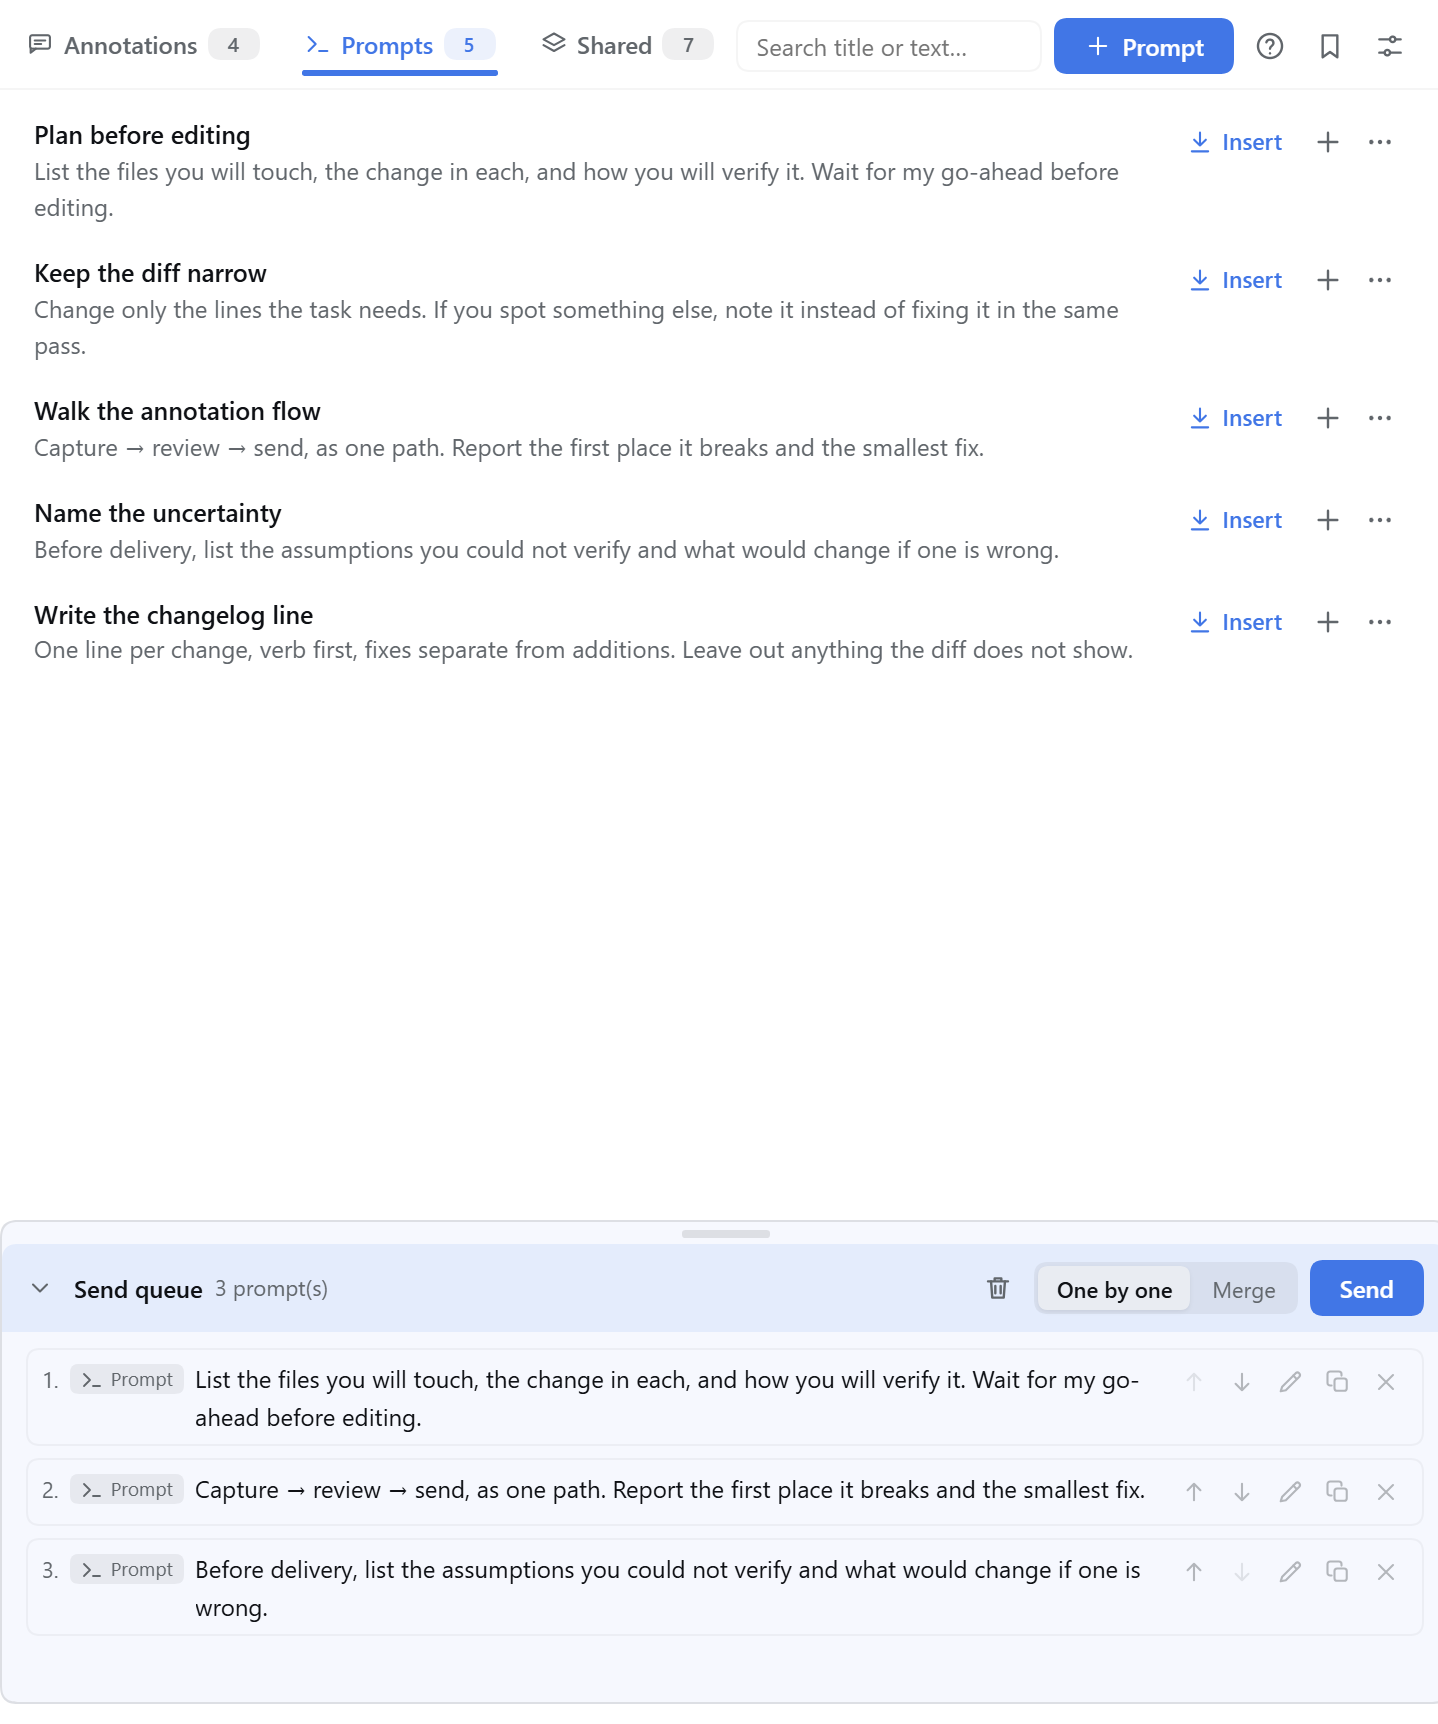
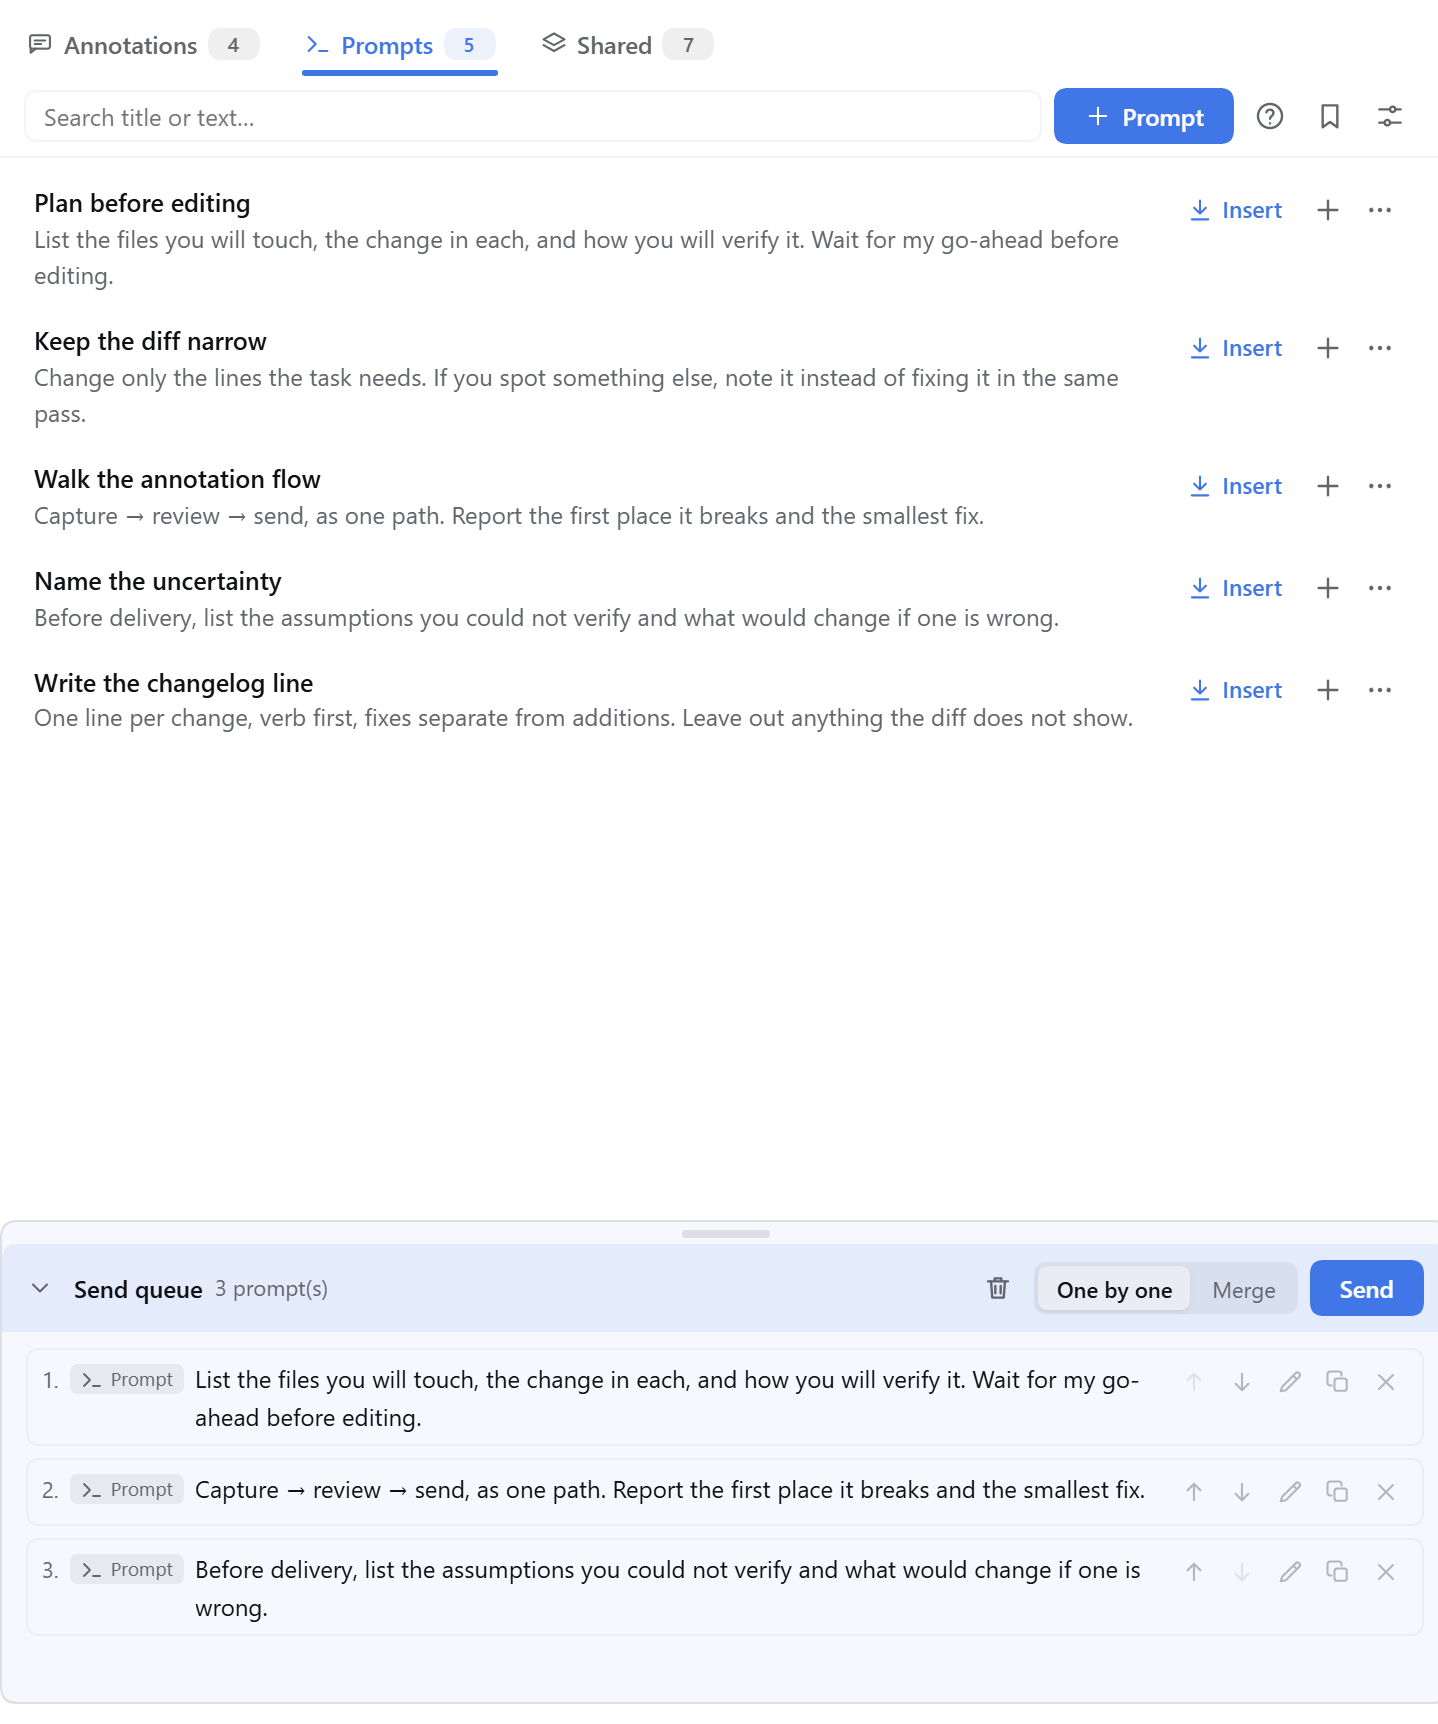
feat: split page header into two rows

diff --git a/plugin/client.js b/plugin/client.js
@@ -5030,11 +5030,15 @@ window.__ModuleLoader__.load({
         h(
           'div',
           { className: 'pp-page-head' },
-          h(ScopeBar, {
-            value: activeMode,
-            counts: { notes: notesList.length, prompts: workspaceCount, global: sharedItems.length },
-            onChange: switchMode,
-          }),
+          h(
+            'div',
+            { className: 'pp-page-tabs' },
+            h(ScopeBar, {
+              value: activeMode,
+              counts: { notes: notesList.length, prompts: workspaceCount, global: sharedItems.length },
+              onChange: switchMode,
+            }),
+          ),
           h(
             'div',
             { className: 'pp-head-tools' },
@@ -10068,11 +10072,10 @@ window.__ModuleLoader__.load({
       '.pp-help-icon svg{width:14px;height:14px}' +
       '.pp-help-body{font-size:11.5px;line-height:1.6;color:var(--pp-ink-2)}' +
       '.pp-help-card .pp-modal-actions{margin-top:2px}' +
-      // The page header carries the three destinations on the left and the
-      // contextual tools on the right. The context row below holds either the
-      // workspace caption or the shared pool's group tabs.
-      '.pp-head-tools{display:flex;align-items:center;gap:6px;flex:1;min-width:0;justify-content:flex-end}' +
-      '.pp-head-tools .pp-search{flex:0 1 220px;min-width:80px;width:auto}' +
+      // The page header stacks two rows: the three destinations, then the
+      // search field with the contextual tools.
+      '.pp-head-tools{display:flex;align-items:center;gap:6px;flex:none;width:100%;min-width:0;justify-content:flex-end}' +
+      '.pp-head-tools .pp-search{flex:1 1 200px;min-width:80px;width:auto}' +
       '.pp-page-head .pp-scope-bar,.pp-panel-headline .pp-scope-bar{padding:0;column-gap:20px;min-width:0}' +
       '.pp-page-head .pp-scope-bar .pp-tab,.pp-panel-headline .pp-scope-bar .pp-tab{height:30px}' +
       '.pp-new-prompt{display:inline-flex;align-items:center;justify-content:center;gap:5px;height:26px;flex:none;padding:0 10px;font-size:12px;white-space:nowrap}' +
@@ -10148,7 +10151,8 @@ window.__ModuleLoader__.load({
       '.pp-btn-icon{display:inline-flex;align-items:center;flex:none}.pp-btn-icon svg{width:14px;height:14px}' +
       '.pp-list{overflow-y:auto;padding:6px max(8px,calc((100% - 760px) / 2)) 20px;flex:1;min-height:0}' +
       '.pp-page{position:relative;display:flex;flex-direction:column;height:100%;min-height:0;background:var(--dsw-alias-bg-base);color:var(--pp-ink);font-size:13px;line-height:1.5}' +
-      '.pp-page-head{display:flex;align-items:center;gap:10px;min-width:0;padding:8px 12px 6px;border-bottom:1px solid var(--pp-line);flex-wrap:nowrap}' +
+      '.pp-page-head{display:flex;flex-direction:column;align-items:stretch;gap:6px;min-width:0;padding:8px 12px 6px;border-bottom:1px solid var(--pp-line);flex-wrap:nowrap}' +
+      '.pp-page-tabs{display:flex;align-items:center;min-width:0}' +
       '.pp-panel-head{flex-direction:column;align-items:stretch;gap:0;padding:0}' +
       '.pp-panel-brand{display:flex;align-items:center;gap:7px;min-width:0;padding:1px 12px 5px}' +
       '.pp-panel-brand-mark{display:inline-flex;align-items:center;justify-content:center;width:22px;height:22px;flex:none;border-radius:7px;background:color-mix(in srgb,var(--pp-accent) 9%,transparent);color:var(--pp-accent)}' +

diff --git a/README.zh.md b/README.zh.md
@@ -28,8 +28,9 @@ DeepSeek Harness 里的提示词暂存池：草稿还没想好时先放在池子
 ![提示池在右侧栏里的整页视图](docs/images/sidebar.zh.png)
 
 右侧栏里的整页视图有三个目的地：「批注」列出当前会话的批注；「提示词」只列当前工作区的内容；
-「共享池」放跨工作区共用的分组。页头直接放使用说明、保存当前输入和设置；勾选批注后点底部的
-「汇总批注」打开整理卡。提示词直接进入列表；共享池保留内置分组与自定义分组，分组条单独占一条上下文行。
+「共享池」放跨工作区共用的分组。页头把三个目的地放在第一行，搜索框与使用说明、保存当前输入、设置放在
+第二行；勾选批注后点底部的「汇总批注」打开整理卡。提示词直接进入列表；共享池保留内置分组与自定义分组，
+分组条单独占一条上下文行。
 存成提示词时会先进入一个保存步骤，可以修改标题、正文、图片和分组，并提示保存后不再保留会话上下文。
 
 ![设置页：提示词使用后保留、内置重置、分组显示与插件信息](docs/images/settings.zh.png)

diff --git a/README.md b/README.md
@@ -34,9 +34,9 @@ the **Prompts** menu saves the current draft, creates a prompt, or opens the pro
 
 The sidebar is the full workbench with three destinations. **Annotations** lists the session's notes;
 **Prompts** holds the current workspace's prompts; **Shared** holds the cross-workspace pool. The page
-header carries help, **Save current input** and **Settings**; select notes and choose **Summarize** in the
-bottom bar to open the review card. **Shared** keeps its built-in and custom group tabs on a context row;
-workspace prompts go straight to the list. Saving a note as a prompt opens a confirmation step where the
+header stacks the destinations above the search field and the header actions (help, **Save current input**,
+**Settings**); select notes and choose **Summarize** in the bottom bar to open the review card. **Shared**
+keeps its built-in and custom group tabs on a context row; workspace prompts go straight to the list. Saving a note as a prompt opens a confirmation step where the
 title, body, images and target group can be edited, with a reminder that the conversation context is not
 carried over.
 

diff --git a/CHANGELOG.md b/CHANGELOG.md
@@ -17,6 +17,8 @@ All notable changes to this project are documented here. The format follows
   **Shared** (the built-in and custom groups), instead of nesting a workspace / shared switch under
   **Prompts**. Shared group tabs sit on their own context row; workspace prompts go straight to the list,
   and the composer panel keeps its two modes.
+- The page header keeps the three destinations on their own row and moves the search field and the header
+  actions to the row below, with the search field filling the width.
 - Underline tabs gained more breathing room: page destinations and panel modes now use a 20px gap,
   matching the settings tabs.
 - The page and panel headers now expose **How it works**, **Save current input** and **Settings**
